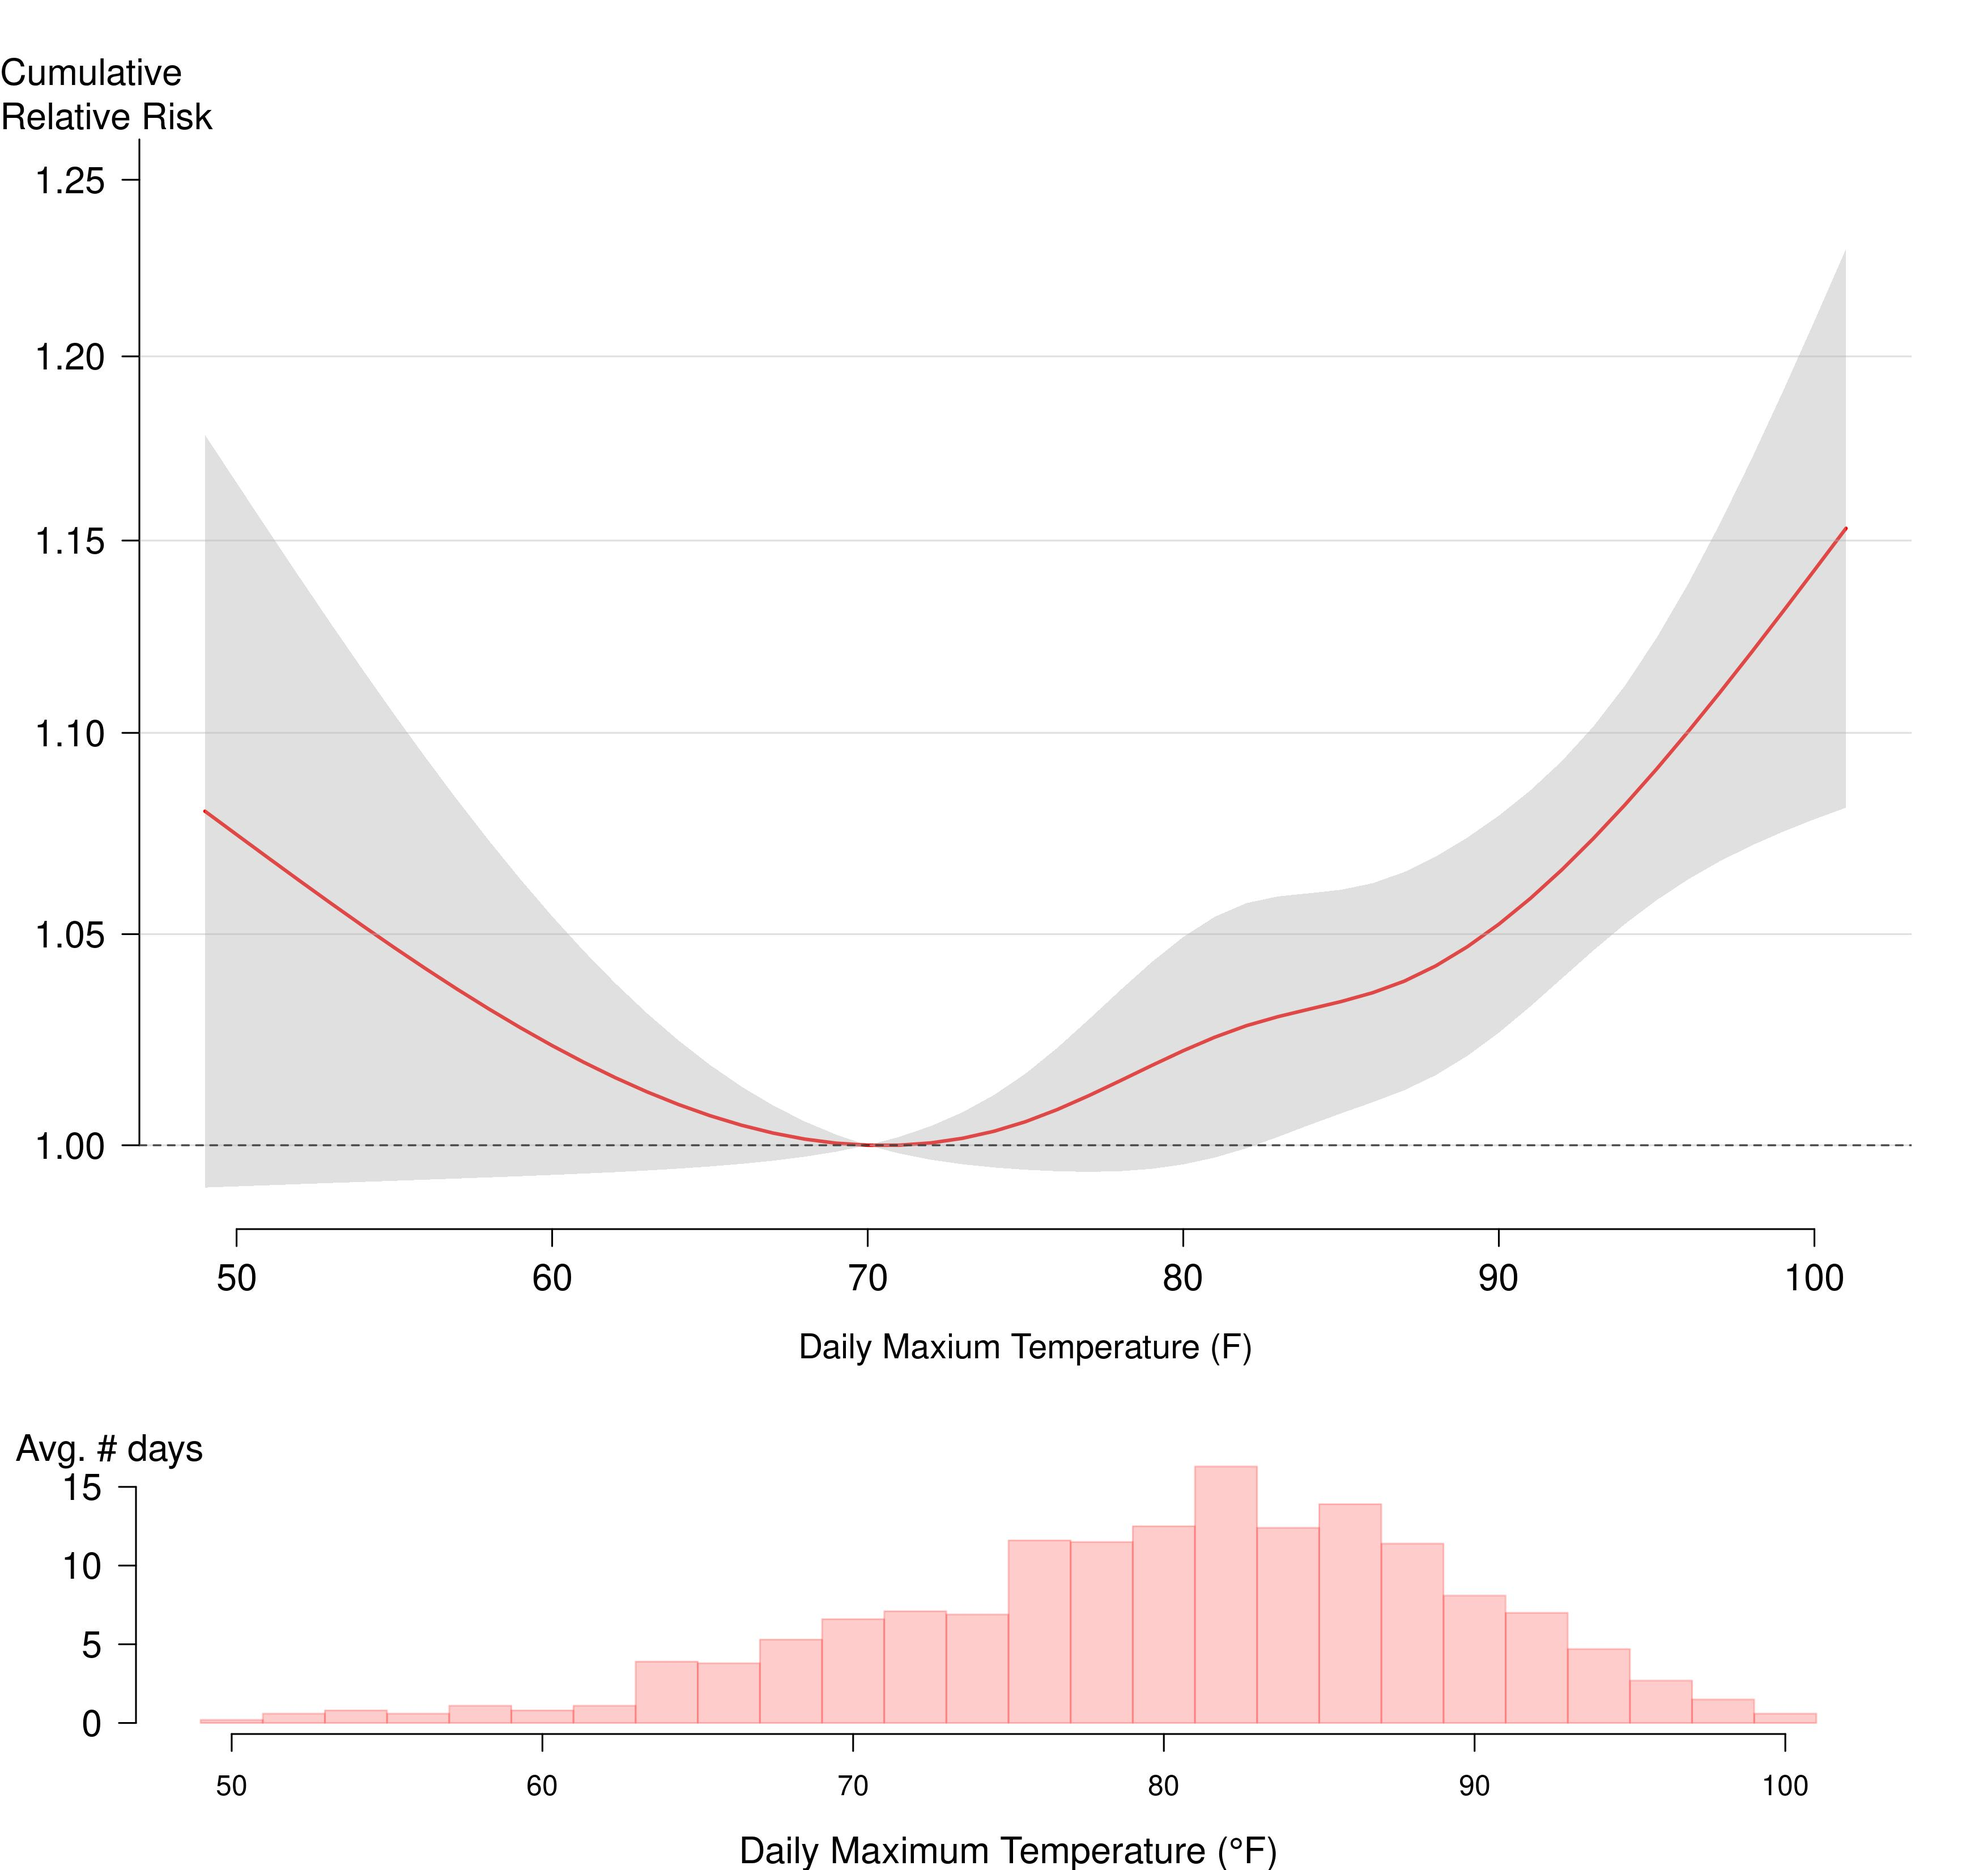
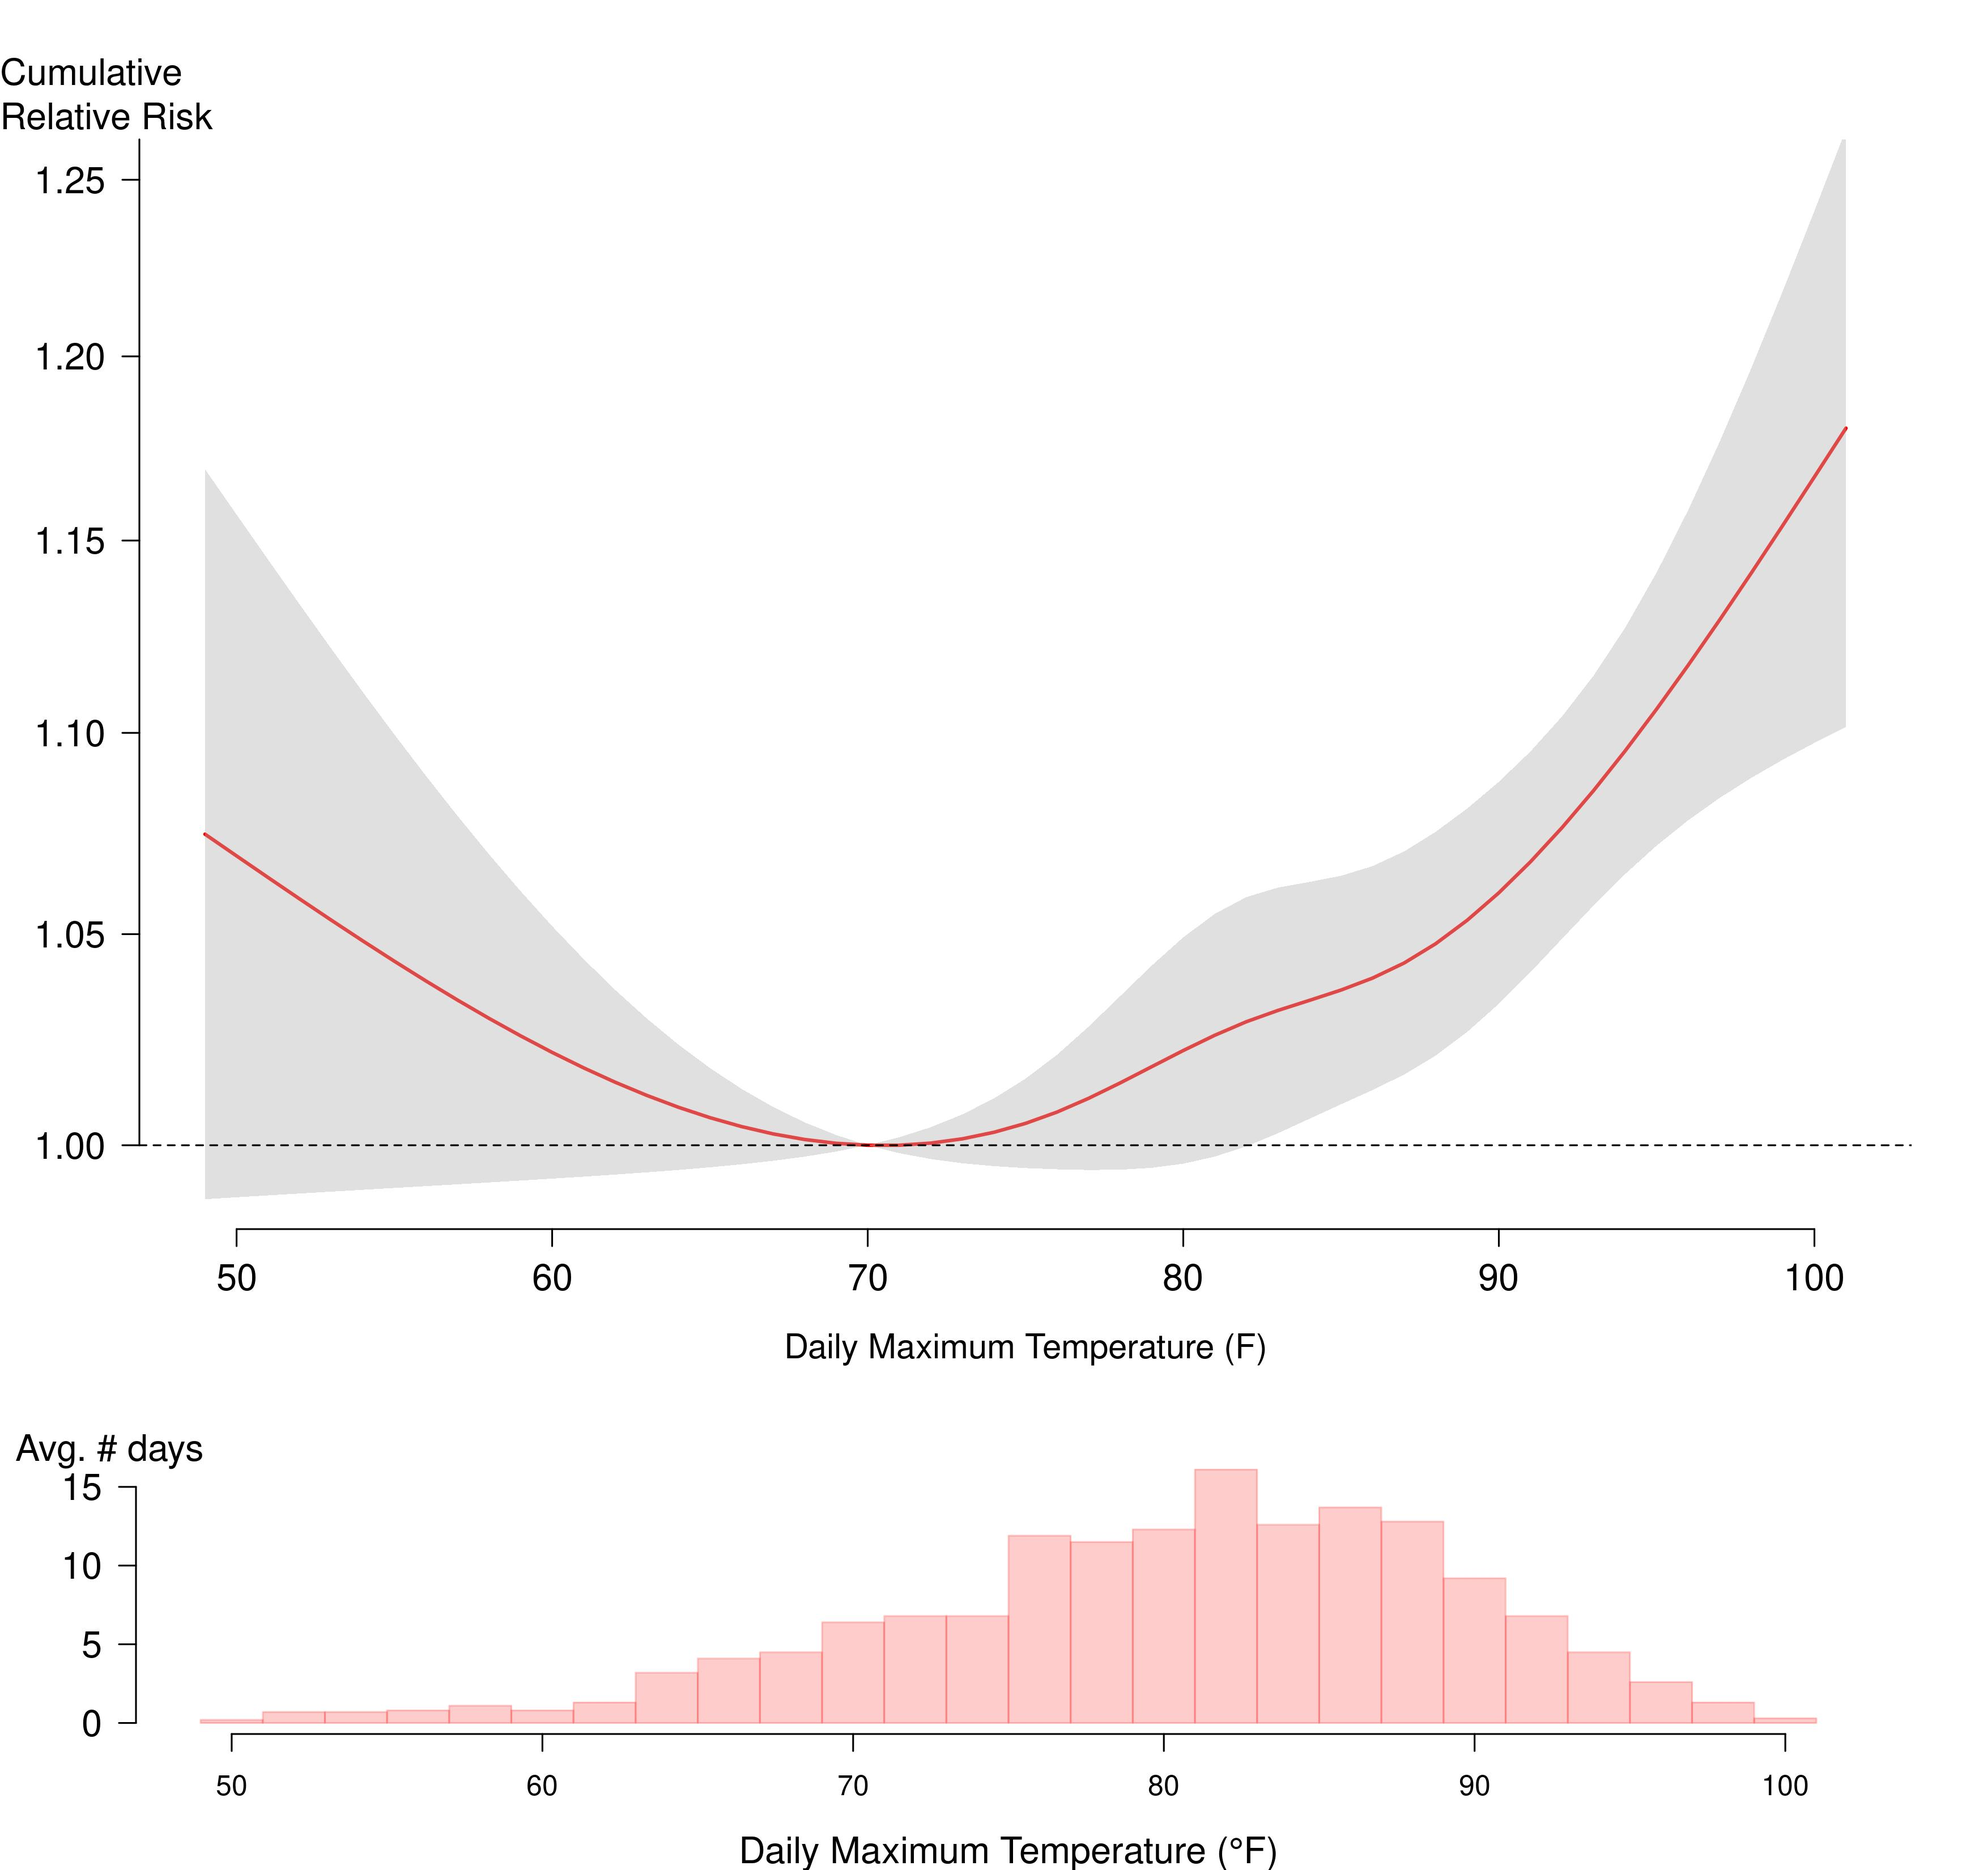
Update maps and codes

diff --git a/content/data-features/heat-report/1-fig-1.md b/content/data-features/heat-report/1-fig-1.md
@@ -6,7 +6,9 @@ draft: false
 <div class="p-2 border">
 <strong>Figure 1</strong>: Heat-stress deaths by year, NYC residents (2016-2025).
 
-<iframe src="{{< baseurl >}}html/2025-heat-report-fig-1.html" scrolling="no" frameborder="0" style="width: 0; min-width: 100% !important; border: none; height:500px;"></iframe>
+<div class="my-2">
+<div style="min-height:317px" id="datawrapper-vis-6FsDa"><script type="text/javascript" defer src="https://datawrapper.dwcdn.net/6FsDa/embed.js" charset="utf-8" data-target="#datawrapper-vis-6FsDa"></script><noscript><img src="https://datawrapper.dwcdn.net/6FsDa/full.png" alt="Column Chart" /></noscript></div>
+</div>
 
-<div class="fs-sm px-2 py-1 mb-2"><strong>Notes:</strong> The number of heat-stress deaths for 2024 and 2025 are provisional. If additional deaths are certified, the number will be updated in future reports.  The average annual number of heat stress deaths increased from 5 to 7, largely due to a record-breaking heat event in June 2025.</div>
+<div class="fs-sm px-0 py-1 mb-2"><strong>Notes:</strong> The number of heat-stress deaths for 2024 and 2025 are provisional. If additional deaths are certified, the number will be updated in future reports.  The average annual number of heat stress deaths increased from 5 to 7, largely due to a record-breaking heat event in June 2025.</div>
 </div>

diff --git a/content/data-features/heat-report/9-maps.md b/content/data-features/heat-report/9-maps.md
@@ -11,7 +11,7 @@ draft: false
 </div>
 
 <div id="map2" class="hide">
-<div style="min-height:717px" id="datawrapper-vis-05b1J"><script type="text/javascript" defer src="https://datawrapper.dwcdn.net/05b1J/embed.js" charset="utf-8" data-target="#datawrapper-vis-05b1J"></script><noscript><img src="https://datawrapper.dwcdn.net/05b1J/full.png" alt="Map of heat stress deaths for 2022 by neighborhood tabulation areas in New York City" /></noscript></div>
+<div style="min-height:717px" id="datawrapper-vis-bB99w"><script type="text/javascript" defer src="https://datawrapper.dwcdn.net/bB99w/embed.js" charset="utf-8" data-target="#datawrapper-vis-bB99w"></script><noscript><img src="https://datawrapper.dwcdn.net/bB99w/full.png" alt="Map of heat stress deaths for 2025 by neighborhood tabulation areas in New York City" /></noscript></div>
 </div>
 
 <script>

diff --git a/content/data-features/heat-report/3-table1.md b/content/data-features/heat-report/3-table1.md
@@ -4,4 +4,4 @@ draft: false
 
 <p><strong>Table 1:</strong> Medical characteristics among subset with review of health conditions in the medical examiner records (n=68) (2016-2025).</p>
 
-<span style="color:red"><div style="min-height:341px" id="datawrapper-vis-sOcw4"><script type="text/javascript" defer src="https://datawrapper.dwcdn.net/sOcw4/embed.js" charset="utf-8" data-target="#datawrapper-vis-sOcw4"></script><noscript><img src="https://datawrapper.dwcdn.net/sOcw4/full.png" alt="" /></noscript></div></span>
+<span style="color:red"><div style="min-height:341px" id="datawrapper-vis-Pzjzy"><script type="text/javascript" defer src="https://datawrapper.dwcdn.net/Pzjzy/embed.js" charset="utf-8" data-target="#datawrapper-vis-Pzjzy"></script><noscript><img src="https://datawrapper.dwcdn.net/Pzjzy/full.png" alt="Table" /></noscript></div></span>

diff --git a/content/data-features/heat-report/2-fig2.md b/content/data-features/heat-report/2-fig2.md
@@ -5,4 +5,4 @@ draft: false
 
 **Figure 2:** Demographic characteristics of heat-stress decedents (2016-2025).
 
-<span style="color:red"><div style="min-height:739px" id="datawrapper-vis-3P2nA"><script type="text/javascript" defer src="https://datawrapper.dwcdn.net/3P2nA/embed.js" charset="utf-8" data-target="#datawrapper-vis-3P2nA"></script><noscript><img src="https://datawrapper.dwcdn.net/3P2nA/full.png" alt="" /></noscript></div></span>
+<span style="color:red"><div style="min-height:738px" id="datawrapper-vis-BJc4t"><script type="text/javascript" defer src="https://datawrapper.dwcdn.net/BJc4t/embed.js" charset="utf-8" data-target="#datawrapper-vis-BJc4t"></script><noscript><img src="https://datawrapper.dwcdn.net/BJc4t/full.png" alt="Bar Chart" /></noscript></div></span>

diff --git a/content/data-features/heat-report/4-table2.md b/content/data-features/heat-report/4-table2.md
@@ -5,4 +5,4 @@ draft: false
 
 **Table 2:** Air conditioning presence among heat-stress decedents exposed to heat in homes (2016-2025).
 
-<div style="min-height:212px" id="datawrapper-vis-xxAI4"><script type="text/javascript" defer src="https://datawrapper.dwcdn.net/xxAI4/embed.js" charset="utf-8" data-target="#datawrapper-vis-xxAI4"></script><noscript><img src="https://datawrapper.dwcdn.net/xxAI4/full.png" alt="" /></noscript></div>
+<div style="min-height:212px" id="datawrapper-vis-GOFed"><script type="text/javascript" defer src="https://datawrapper.dwcdn.net/GOFed/embed.js" charset="utf-8" data-target="#datawrapper-vis-GOFed"></script><noscript><img src="https://datawrapper.dwcdn.net/GOFed/full.png" alt="Table" /></noscript></div>
